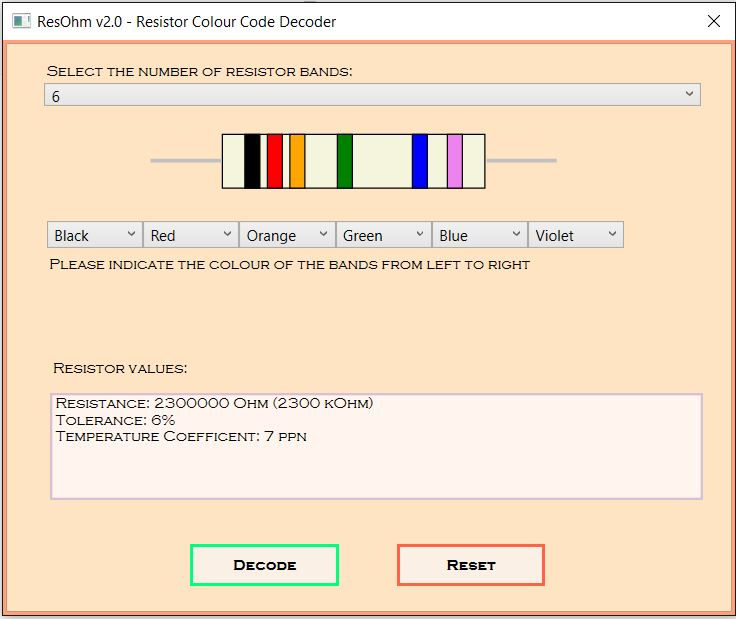
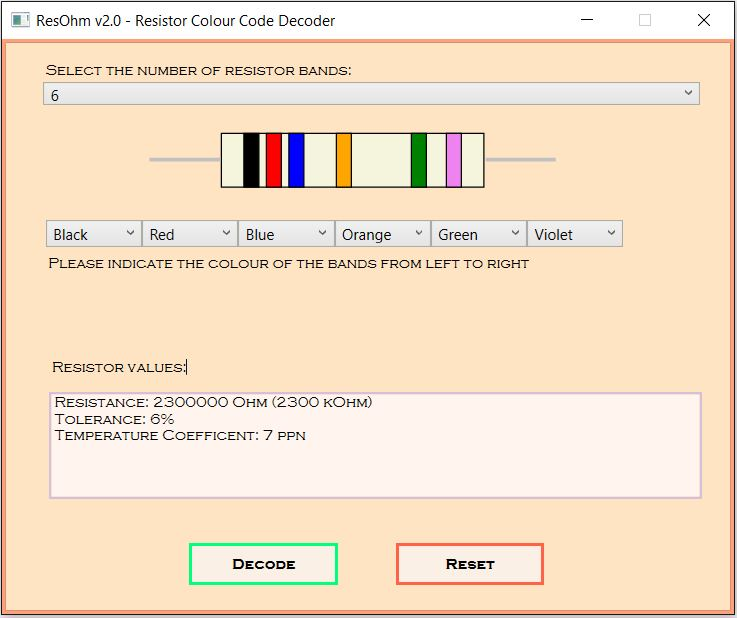
Disabled maximize, enabled minimize of window

diff --git a/ResOhm/MainWindow.xaml b/ResOhm/MainWindow.xaml
@@ -1,6 +1,6 @@
 <Window x:Class="ResOhm.MainWindow" Title="ResOhm v2.0 - Resistor Colour Code Decoder"
         WindowState="Normal"
-        ResizeMode="NoResize"
+        ResizeMode="CanMinimize"
         xmlns="http://schemas.microsoft.com/winfx/2006/xaml/presentation"
         xmlns:x="http://schemas.microsoft.com/winfx/2006/xaml"
         xmlns:d="http://schemas.microsoft.com/expression/blend/2008"
